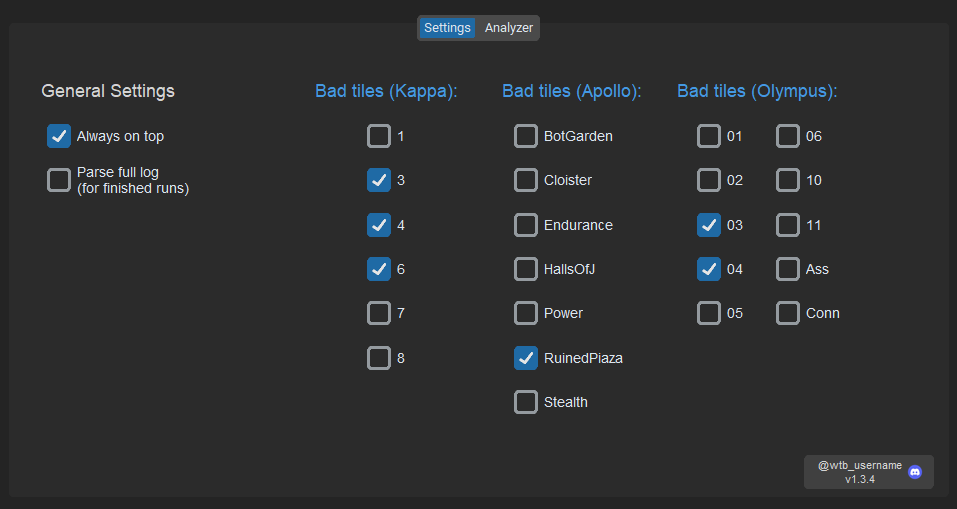
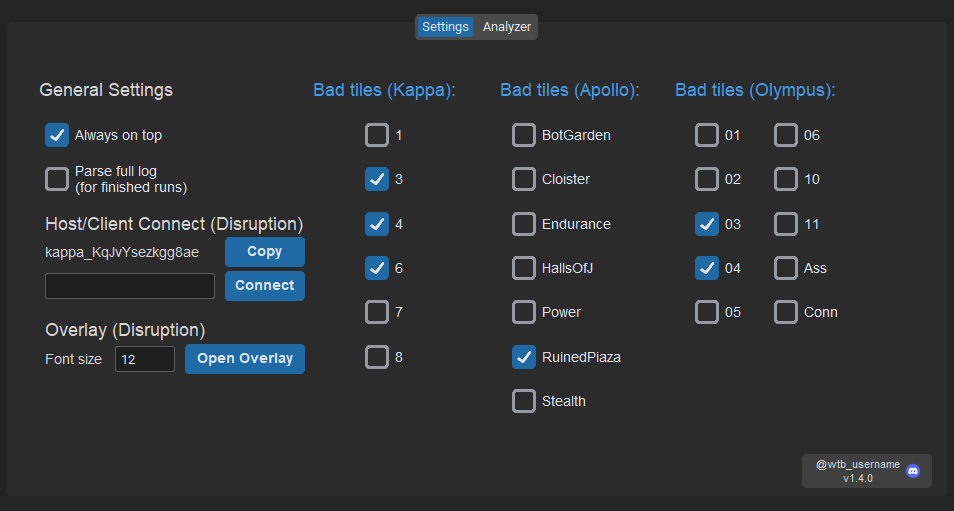
Small connection fix. README update. Version update

diff --git a/AppUI.py b/AppUI.py
@@ -173,7 +173,7 @@ class AppUI:
         self.hostCodeInputBox.place(relx = self.columnRelValues[0] + .025, rely = self.lineRelValues[6] - .06, anchor = "w")
         
         # Overlay related settings
-        self.overlayStringDisplay = customtkinter.CTkLabel(self.settingsWindow, text = "Overlay related", text_color = self.textColor, font = ("Arial", 18))
+        self.overlayStringDisplay = customtkinter.CTkLabel(self.settingsWindow, text = "Overlay (Disruption)", text_color = self.textColor, font = ("Arial", 18))
         self.overlayStringDisplay.place(relx = self.columnRelValues[0] + .025, rely = self.lineRelValues[7] - .06, anchor = "w")
         
         self.fontSizeStringDisplay = customtkinter.CTkLabel(self.settingsWindow, text = "Font size", text_color = self.textColor, font = ("Arial", 14))
@@ -189,6 +189,7 @@ class AppUI:
             wrap = "none"
         )
         self.fontSizeInputBox.place(relx = self.columnRelValues[1] + .01, rely = self.lineRelValues[8] - .095, anchor = "w")
+        self.fontSizeInputBox.insert('end', self.overlayFontSize)
         
         self.fontSizeInputBox.bind('<<Modified>>', self.updateOverlayFontFunction)
         

diff --git a/MqttConnection.py b/MqttConnection.py
@@ -65,7 +65,7 @@ class MqttConnection:
                 
                 self.appUi.displayDisruptionRoundFromHostData(receivedDataJson)
                 if(self.fullParser.overlayWindow != None):
-                    if(receivedDataJson["isLastKappaRoun"]):
+                    if(receivedDataJson["isLastKappaRound"]):
                         self.fullParser.overlayWindow.updateOverlayWithTextRaw(StringConstants.overlayRoundString + 
                                                                           receivedDataJson["totalRoundTimeInSeconds"] + 
                                                                           StringConstants.overlaySpaceString + 

diff --git a/staticStrings.py b/staticStrings.py
@@ -10,7 +10,7 @@ class StringConstants:
     updateAvailableString = "Update available"
     updateAvailableHyperlinkString = "Download"
     
-    hostCodeDisplayString = "Host code/Connect to"
+    hostCodeDisplayString = "Host/Client Connect (Disruption)"
     
     openOverlayString = "Open Overlay"
     closeOverlayString = "Close Overlay"

diff --git a/InspectorGadget.py b/InspectorGadget.py
@@ -33,7 +33,7 @@ def resource_pathAnnoying(relative_path):
 
 class FullParser:
     def __init__(self) -> None:
-        self.currentVersion = "1.3.7"
+        self.currentVersion = "1.4.0"
 
         self.currentMissionTileString = None
         self.badTileList = None

diff --git a/README.md b/README.md
@@ -13,8 +13,16 @@ InspectorGadget can be used to simply look for the correct tiles in various miss
 #### Disruption
 It can also be used to look for specific layouts in some disruption missions, and subsequently analyze a full run, displaying times of key inserts, demolyst kills, expected 45 round time (level cap) based on current round average, amongst other stats. A chart containing time/round is created at the end of the run and all raw data collected is dumped to a file, allowing users to analyze all the data in minute detail.
 
+##### Overlay
+A recent new feature allows for the creation of a small overlay window (similar to YATE, for those familiar with Eidolons). In the settings tab, the overlay can be toggled at any time. The window can be positioned anywhere on the screen by simply clicking and dragging it, and the position can be locked by pressing the blue lock button, making it always on top and non-interactable with. Furthermore, the font size can be adjusted at any time in the settings window. 
+
+The overlay will update at the end of each round with the previous round time and expected level cap time.
+
+##### Host-Client Connection
+The app also allows for disruption information to be sent to clients. The host must copy the code in the settings tab and share it with the clients, where they must input it in the corresponding box and connect. This will allow for periodic updates on the client side to the main Inspector Analyzer window, as well as on the overlay.
+
 #### Cascade exos
-Lastly, InspectorGadget can also parse through Cascade map layout, showing a sequence of numbers which indicate the number of exolizers in each room.
+Lastly, InspectorGadget can also parse through Cascade map layout, showing a sequence of numbers which indicate the number of exolizers in each room. Alongside the numbers, the room names will also be shown.
 
 ## Using the app
 Simply run the .exe file AFTER opening the game (new EE.log sessions are not detected), or directly the InspectorGadget.py file. This will start parsing EE.log from the end of file, and will display relevant information in the Analyzer tab. As mentioned before, make sure to open Warframe before the app, as it only "opens" EE.log once, and doesn't detect game restarts.
